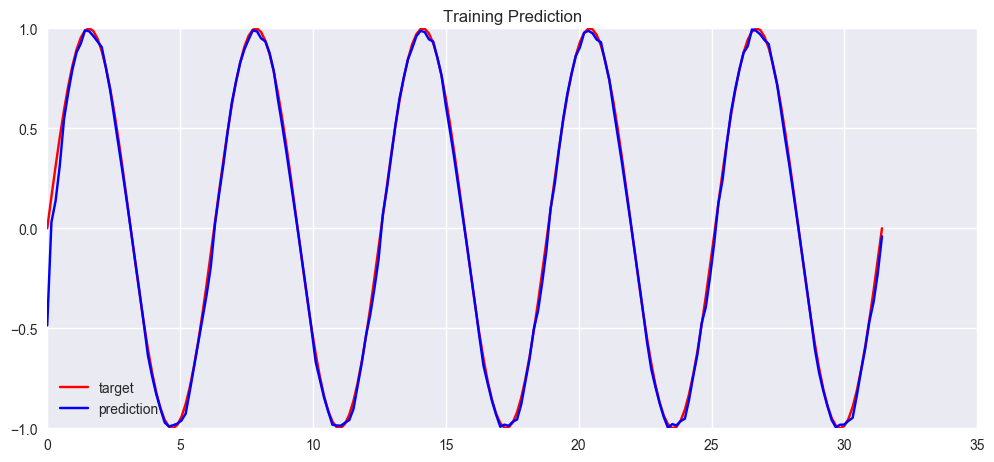
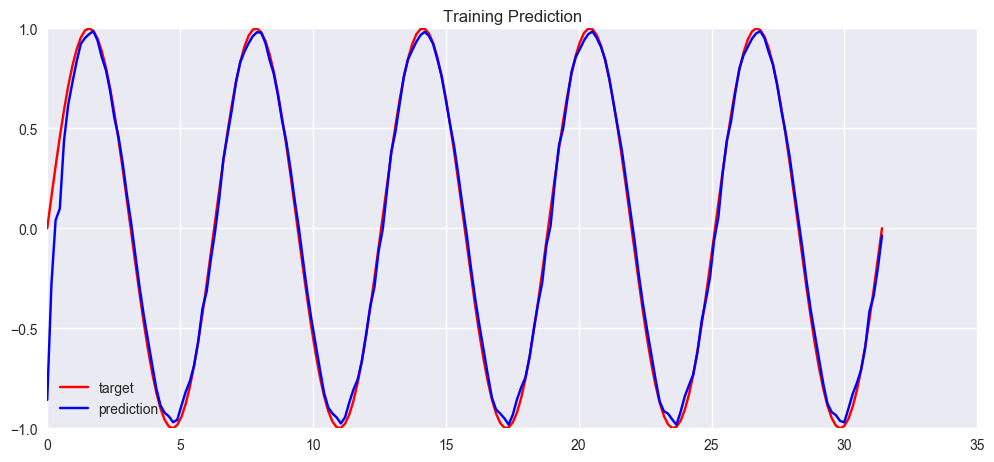
rnn_reg

diff --git a/RegRNN/reg_rnn.md b/RegRNN/reg_rnn.md
@@ -82,7 +82,7 @@ Another approach is to *concatenate* the output of the hidden layer to its input
 
 
 
-**Nb 4:  Hybrid Network.** This network is a little different from the previous ones (actually I built this network just for fun). This network had multiple structures, both recurrent and feedforward. It combines the above two recurrent networks, both the Elman and the Jordan network. There is an additional feedforward structure - directly takes the input to the output layer. This is accomplished by adding an linear layer connecting the input and the output layer. The reason to do so is that I want the network to have the ability to bypass the information to go into the recurrent layer. An interesting experiment I want to conduct on the network behavior under this kind of structure.
+**Nb 4:  Hybrid Network.** This network is a little different from the previous ones (actually I built this just for fun). This network combines the Elman and the Jordan network. It has two loops - both hidden-to-hidden and output-to-hidden, hence able to get feedback signal from both the output and the last hidden state. The result shows improvements than using either the (single-layered) Elman and Jordan network alone.
 
 
 
